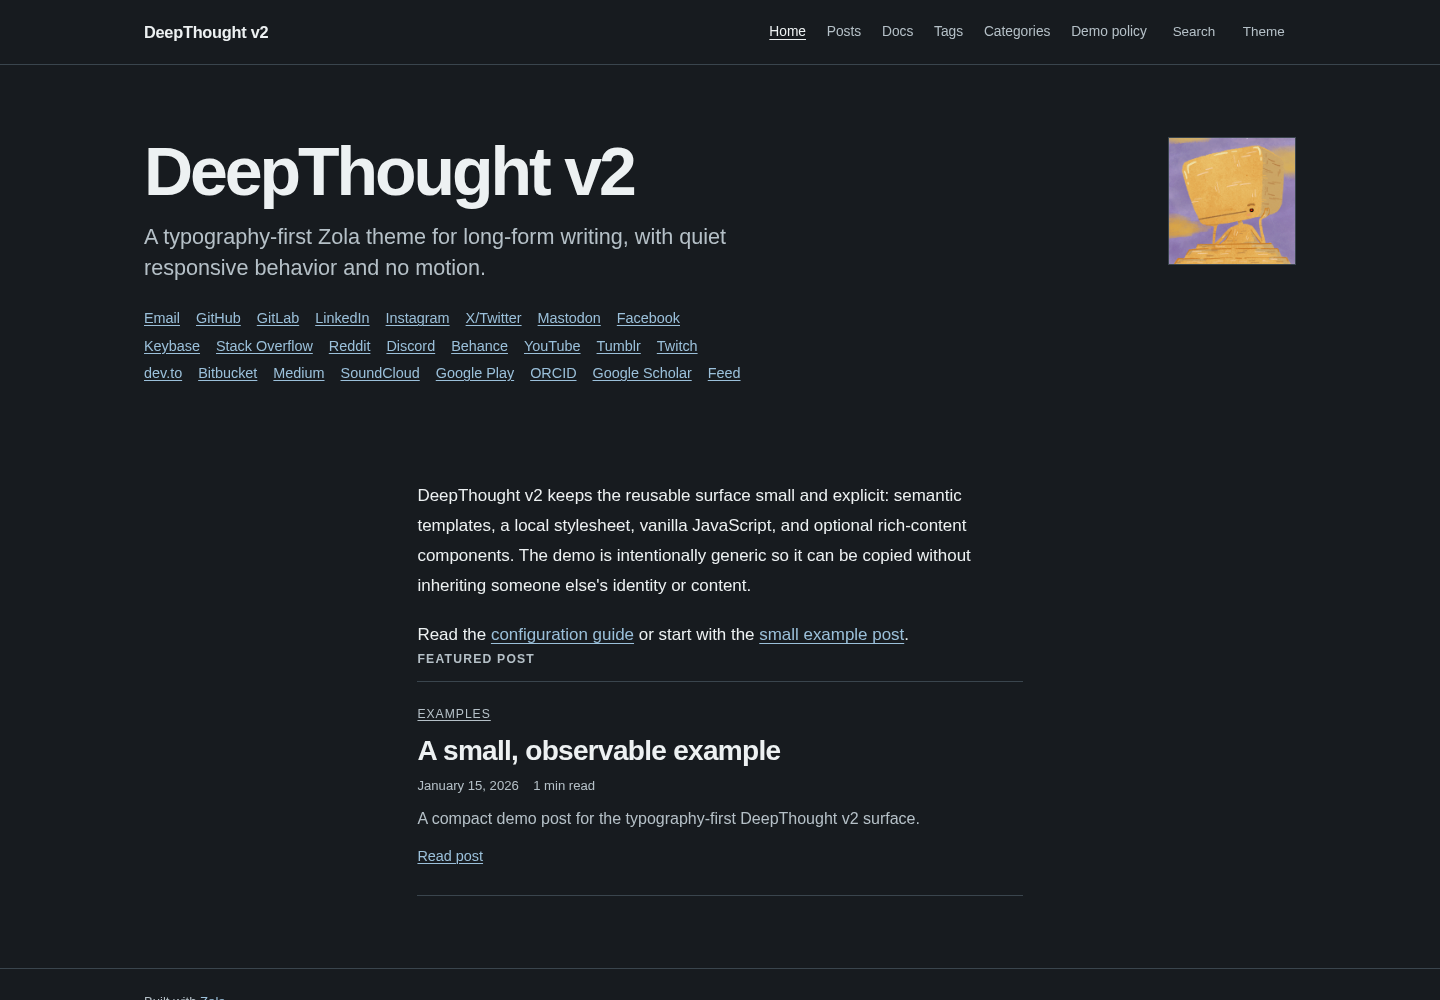
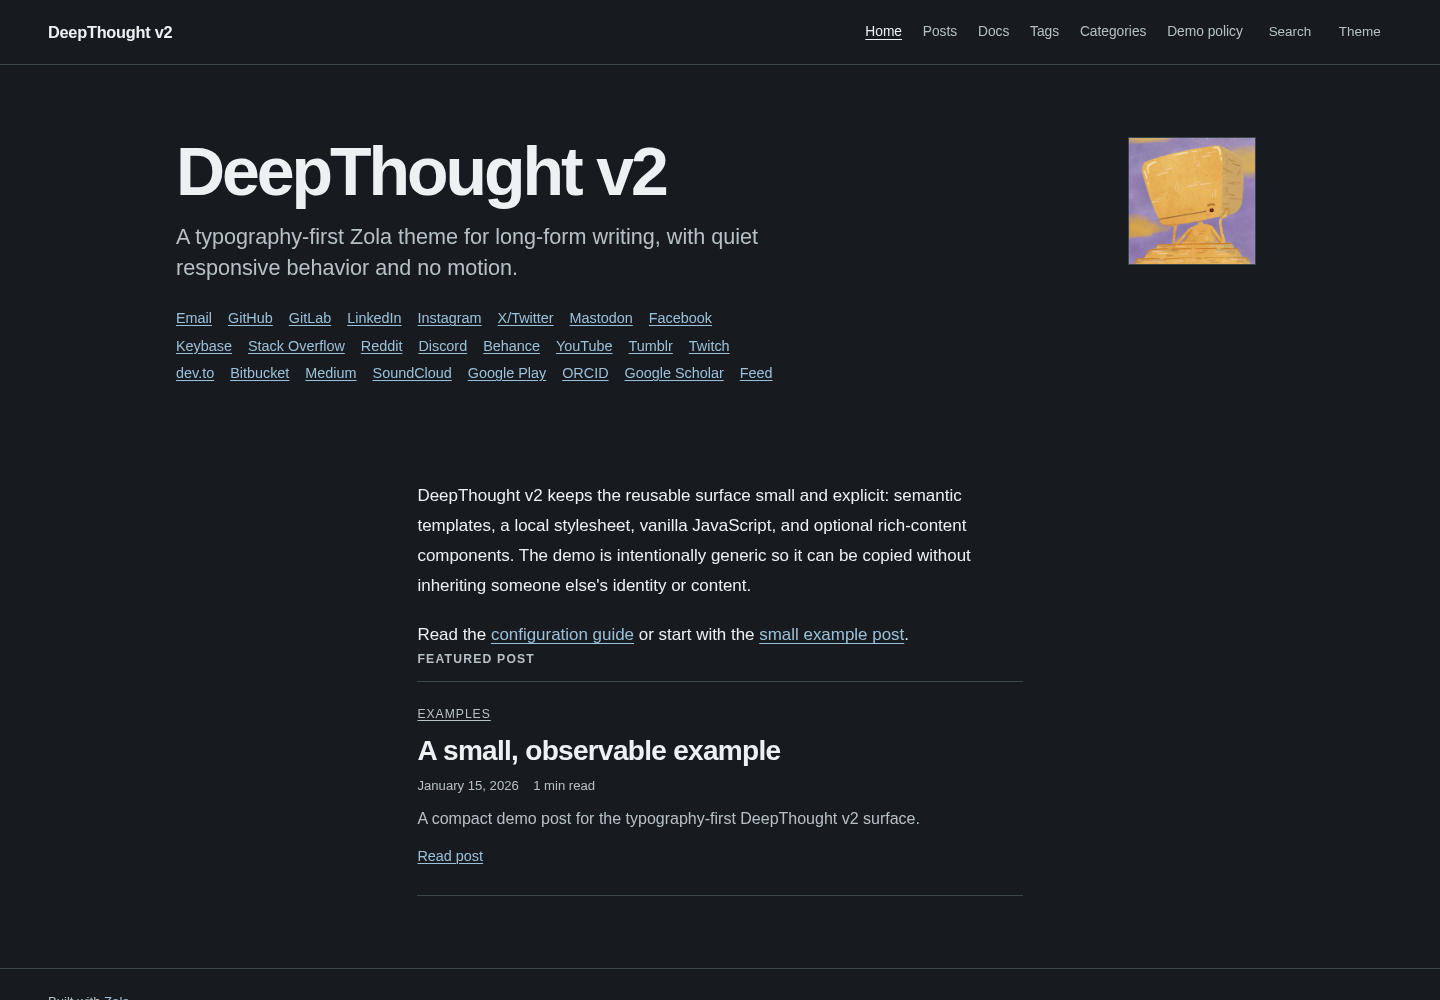
refactor: narrow layout fix scope

diff --git a/tests/browser_regressions.js b/tests/browser_regressions.js
@@ -371,7 +371,7 @@ async function exerciseArticle(page, base, report) {
       const layout = document.querySelector(".reading-layout").getBoundingClientRect();
       const aside = document.querySelector(".article-aside").getBoundingClientRect();
       const article = document.querySelector(".reading-column").getBoundingClientRect();
-      return { layout: { x: layout.x, width: layout.width }, aside: { width: aside.width }, article: { x: article.x, width: article.width } };
+      return { viewport: innerWidth, layout: { x: layout.x, width: layout.width }, aside: { width: aside.width }, article: { x: article.x, width: article.width } };
     });
     await desktopToc.locator("summary").focus();
     await page.keyboard.press("Enter");
@@ -380,11 +380,14 @@ async function exerciseArticle(page, base, report) {
       const layout = document.querySelector(".reading-layout").getBoundingClientRect();
       const aside = document.querySelector(".article-aside").getBoundingClientRect();
       const article = document.querySelector(".reading-column").getBoundingClientRect();
-      return { layout: { x: layout.x, width: layout.width }, aside: { width: aside.width }, article: { x: article.x, width: article.width } };
+      return { viewport: innerWidth, layout: { x: layout.x, width: layout.width }, aside: { width: aside.width }, article: { x: article.x, width: article.width } };
     });
+    const expandedCenter = expanded.article.x + expanded.article.width / 2;
+    const collapsedCenter = collapsed.article.x + collapsed.article.width / 2;
     assert.ok(collapsed.aside.width <= 44, "collapsed sidebar becomes a narrow control");
-    assert.ok(Math.abs(collapsed.layout.width - expanded.layout.width) < 1, "collapsed layout keeps the percentage-based outer shell");
-    assert.ok(Math.abs(collapsed.article.x - expanded.article.x) < 1, "article remains centered when contents collapses");
+    assert.ok(Math.abs(expandedCenter - expanded.viewport / 2) < 1, "article is centered while contents is expanded");
+    assert.ok(Math.abs(collapsedCenter - collapsed.viewport / 2) < 1, "article remains centered when contents collapses");
+    assert.ok(Math.abs(collapsed.article.x - expanded.article.x) < 1, "article position stays stable when contents collapses");
     assert.ok(Math.abs(collapsed.article.width - expanded.article.width) < 1, "reading width stays stable");
     await desktopToc.locator("summary").click();
     assert.strictEqual(await desktopToc.evaluate(el => el.open), true, "click expands desktop contents");
@@ -468,61 +471,12 @@ async function exercisePolicy(page, base, report) {
   report.functional.policy = policy;
 }
 
-async function exerciseWideLayout(page, base, report) {
-  await page.setViewportSize({ width: 2560, height: 1440 });
-  await page.goto(`${base}${routes[0][1]}`, { waitUntil: "domcontentloaded" });
-  const layout = await page.evaluate(() => {
-    const rect = selector => {
-      const box = document.querySelector(selector).getBoundingClientRect();
-      return { x: box.x, right: box.right, width: box.width };
-    };
-    return {
-      viewport: innerWidth,
-      shell: rect(".home-layout"),
-      intro: rect(".home-intro"),
-      copy: rect(".home-intro__copy"),
-      portrait: rect(".home-intro__portrait"),
-    };
-  });
-  const leftGutter = layout.shell.x / layout.viewport;
-  const rightGutter = (layout.viewport - layout.shell.right) / layout.viewport;
-  assert.ok(leftGutter >= 0.095 && leftGutter <= 0.105, "wide homepage uses a 10% left gutter");
-  assert.ok(rightGutter >= 0.095 && rightGutter <= 0.105, "wide homepage uses a 10% right gutter");
-  assert.ok(Math.abs(layout.intro.x - layout.shell.x) <= 1, "homepage identity starts at the shell edge");
-  assert.ok(Math.abs(layout.intro.right - layout.shell.right) <= 1, "homepage identity ends at the shell edge");
-  assert.ok(Math.abs(layout.copy.x - layout.shell.x) <= 1, "homepage title aligns with the percentage gutter");
-  assert.ok(Math.abs(layout.portrait.right - layout.shell.right) <= 1, "homepage portrait aligns with the percentage gutter");
-
-  await page.goto(`${base}${articleRoute}`, { waitUntil: "domcontentloaded" });
-  const articleLayout = await page.evaluate(() => {
-    const rect = selector => {
-      const box = document.querySelector(selector).getBoundingClientRect();
-      return { x: box.x, right: box.right, width: box.width };
-    };
-    return {
-      viewport: innerWidth,
-      layout: rect(".reading-layout"),
-      aside: rect(".article-aside"),
-      article: rect(".reading-column"),
-    };
-  });
-  const articleLeftGutter = articleLayout.layout.x / articleLayout.viewport;
-  const articleRightGutter = (articleLayout.viewport - articleLayout.layout.right) / articleLayout.viewport;
-  const articleCenter = articleLayout.article.x + articleLayout.article.width / 2;
-  assert.ok(articleLeftGutter >= 0.095 && articleLeftGutter <= 0.105, "wide article layout uses a 10% left gutter");
-  assert.ok(articleRightGutter >= 0.095 && articleRightGutter <= 0.105, "wide article layout uses a 10% right gutter");
-  assert.ok(Math.abs(articleCenter - articleLayout.viewport / 2) <= 1, "wide article remains centered in the fluid layout");
-  assert.ok(articleLayout.article.width >= 680, "wide article uses more horizontal space without exceeding its readable measure");
-  assert.ok(Math.abs(articleLayout.aside.x - articleLayout.layout.x) <= 1, "wide contents rail starts at the percentage gutter");
-  report.functional.wideLayout = { home: layout, article: articleLayout };
-}
-
 async function exerciseFooterPlacement(page, base, report) {
   await page.setViewportSize({ width: 1440, height: 1000 });
   await page.goto(`${base}${policyRoute}`, { waitUntil: "domcontentloaded" });
   const footer = await page.evaluate(() => {
     const box = document.querySelector(".site-footer").getBoundingClientRect();
-    return { top: box.top, bottom: box.bottom, height: box.height, viewport: innerHeight };
+    return { bottom: box.bottom, height: box.height, viewport: innerHeight };
   });
   assert.ok(footer.height > 0, "footer is visible on a short page");
   assert.ok(Math.abs(footer.bottom - footer.viewport) <= 1, "footer sits at the viewport bottom on a short page");
@@ -585,7 +539,6 @@ async function main() {
     await exerciseArticle(page, base, report);
     await exerciseRichContent(page, base, report);
     await exercisePolicy(page, base, report);
-    await exerciseWideLayout(page, base, report);
     await exerciseFooterPlacement(page, base, report);
 
     assert.strictEqual(report.matrix.length, 54, "responsive matrix covers 9 pages x 3 viewports x 2 themes");

diff --git a/static/site.css b/static/site.css
@@ -129,7 +129,7 @@ img {
 }
 
 .site-shell {
-  width: 80%;
+  width: min(84rem, calc(100% - 2rem));
   margin-inline: auto;
 }
 
@@ -265,7 +265,7 @@ img {
 }
 
 .home-layout {
-  width: 80%;
+  width: min(72rem, calc(100% - 2rem));
   margin-inline: auto;
 }
 
@@ -274,7 +274,7 @@ img {
   grid-template-columns: minmax(0, 1fr) 8.5rem;
   gap: clamp(2rem, 7vw, 7rem);
   align-items: start;
-  width: 100%;
+  max-width: 68rem;
   margin-inline: auto;
   margin-bottom: clamp(3rem, 8vw, 6rem);
 }
@@ -284,7 +284,6 @@ img {
 }
 
 .home-intro__portrait {
-  justify-self: end;
   width: 8rem;
   height: 8rem;
   object-fit: cover;
@@ -488,28 +487,27 @@ img {
 
 .reading-layout {
   display: grid;
-  grid-template-columns: minmax(2.75rem, 18%) minmax(0, 1fr) minmax(2.75rem, 18%);
-  gap: 4%;
+  grid-template-columns: minmax(0, 14rem) minmax(0, 68ch) minmax(0, 14rem);
+  gap: clamp(1rem, 3vw, 5rem);
   align-items: start;
-  width: 80%;
+  justify-content: center;
+  width: min(calc(100% - 2rem), calc(68ch + 28rem + 10rem));
   margin-inline: auto;
 }
 
 .reading-layout:has(.desktop-toc:not([open])) {
-  grid-template-columns: minmax(2.75rem, 18%) minmax(0, 1fr) minmax(2.75rem, 18%);
-  gap: 4%;
-  width: 80%;
+  grid-template-columns: minmax(0, 14rem) minmax(0, 68ch) minmax(0, 14rem);
+  gap: clamp(1rem, 3vw, 5rem);
+  width: min(calc(100% - 2rem), calc(68ch + 28rem + 10rem));
 }
 
 .reading-layout:has(.desktop-toc:not([open])) .article-aside {
+  justify-self: start;
   width: 2.75rem;
 }
 
 .reading-column {
   grid-column: 2;
-  justify-self: center;
-  width: 100%;
-  max-width: 78ch;
   min-width: 0;
 }
 
@@ -572,9 +570,7 @@ img {
 .article-aside {
   position: sticky;
   grid-column: 1;
-  justify-self: start;
   top: 1.5rem;
-  width: min(100%, 14rem);
   min-width: 0;
   color: var(--muted);
   font-size: 0.86rem;
@@ -979,18 +975,9 @@ img {
   }
 }
 
-@media (max-width: 64rem) {
-  .reading-layout,
-  .reading-layout:has(.desktop-toc:not([open])) {
-    grid-template-columns: minmax(2.75rem, 14rem) minmax(0, 1fr);
-    gap: 4%;
-    width: 90%;
-  }
-}
-
 @media (max-width: 46rem) {
   .site-shell {
-    width: 90%;
+    width: calc(100% - 2rem);
   }
 
   .site-header__inner {
@@ -1035,7 +1022,6 @@ img {
   .reading-layout:has(.desktop-toc:not([open])) {
     grid-template-columns: 1fr;
     gap: 2.5rem;
-    width: 90%;
   }
 
   .reading-column {

diff --git a/tests/capture_screenshots.js b/tests/capture_screenshots.js
@@ -122,7 +122,7 @@ async function main() {
       return requestRoute.abort("blockedbyclient");
     });
     const page = await context.newPage();
-    for (const [name, width, height] of [["mobile", 390, 844], ["desktop", 1440, 1000], ["wide", 2560, 1440]]) {
+    for (const [name, width, height] of [["mobile", 390, 844], ["desktop", 1440, 1000]]) {
       await page.setViewportSize({ width, height });
       for (const theme of ["light", "dark"]) {
         await page.goto(`${base}${screenshotRoute}`, { waitUntil: "domcontentloaded" });

diff --git a/README.md b/README.md
@@ -10,7 +10,6 @@ DeepThought v2 is a typography-first Zola theme for long-form writing. It keeps 
 | --- | --- | --- |
 | Mobile, 390px | [light](screenshots/deepthought-v2-mobile-light.png) | [dark](screenshots/deepthought-v2-mobile-dark.png) |
 | Desktop, 1440px | [light](screenshots/deepthought-v2-desktop-light.png) | [dark](screenshots/deepthought-v2-desktop-dark.png) |
-| Wide, 2560px | [light](screenshots/deepthought-v2-wide-light.png) | [dark](screenshots/deepthought-v2-wide-dark.png) |
 
 These are screenshots of the standalone demo generated from this checkout, not a mockup or a consuming site.
 
